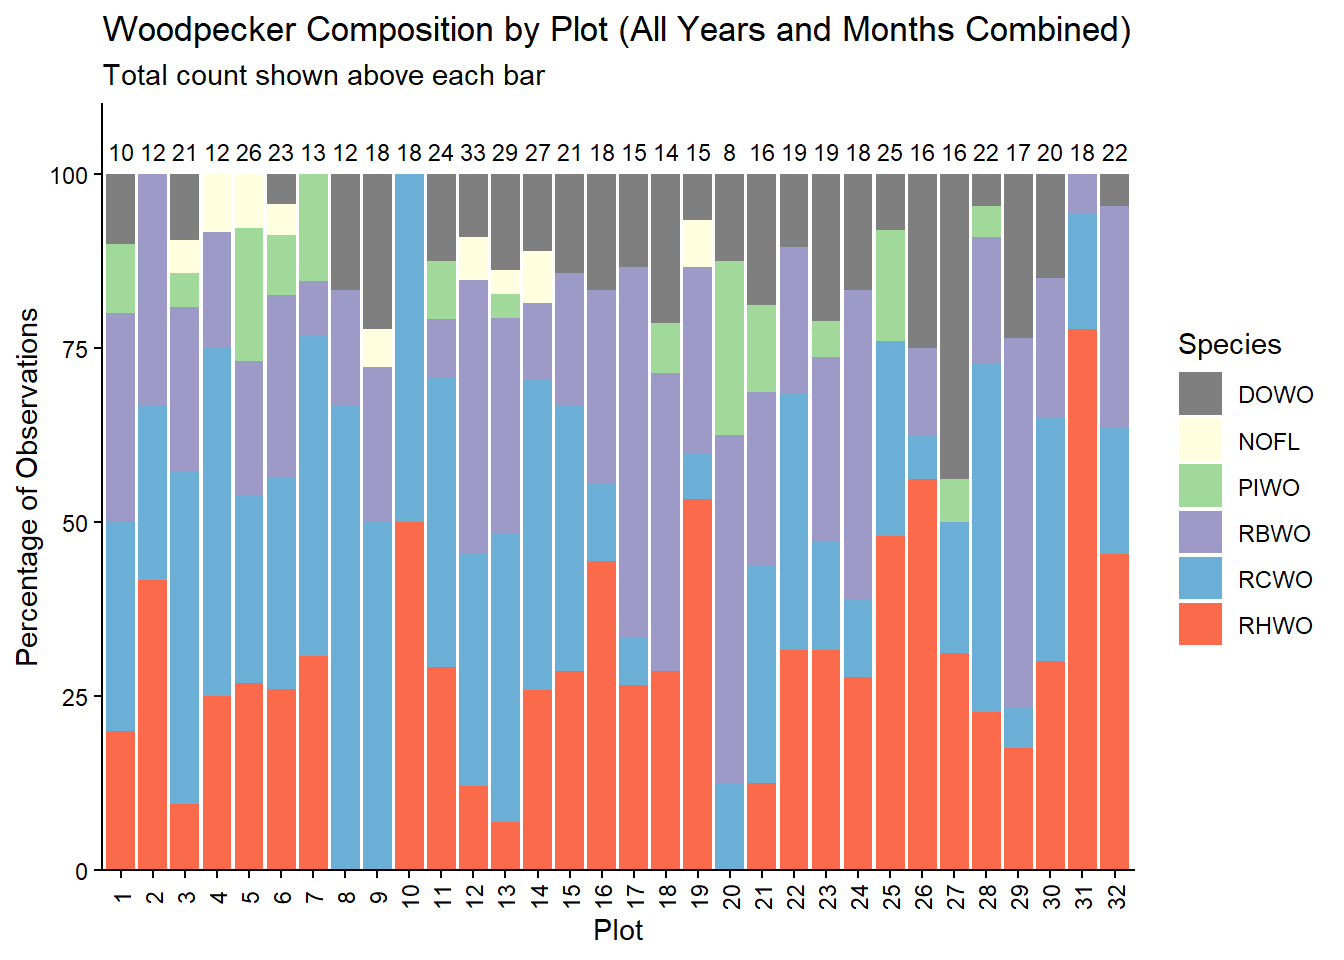
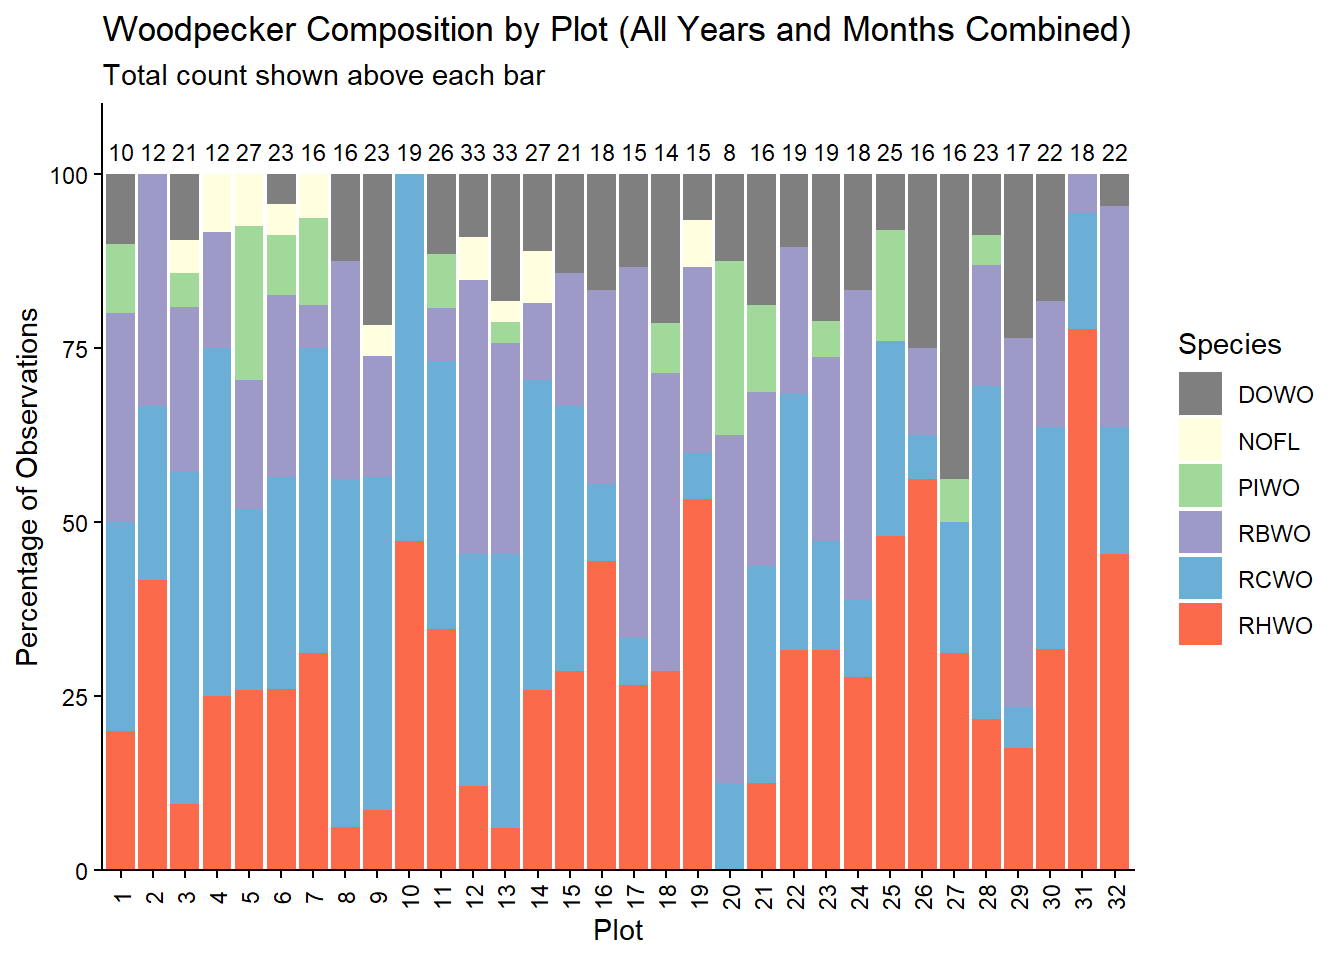
Updated just the foraging data for early May

diff --git a/docs/woodpecker_obs.html b/docs/woodpecker_obs.html
@@ -238,7 +238,7 @@ Table: April observations by species and plot
 <h1>May Observations</h1>
 <div class="cell">
 <div class="cell-output cell-output-stdout">
-<pre><code>Plot(s) with no observations include:  8, 9, 19, 20, 21</code></pre>
+<pre><code>Plot(s) with no observations include:  19, 20, 21</code></pre>
 </div>
 </div>
 <div class="cell">
@@ -249,12 +249,13 @@ Table: May observations by species and plot
 
 |X8_Species |  3|  8|  9| 14| 17| 18| 19| 22| 24|  5|  1|  2|  4|  6|  7| 12| 13| 15| 20| 23| 30| 32| 10| 11| 16| 25| 31| 26| 28| 29| 21| 27|
 |:----------|--:|--:|--:|--:|--:|--:|--:|--:|--:|--:|--:|--:|--:|--:|--:|--:|--:|--:|--:|--:|--:|--:|--:|--:|--:|--:|--:|--:|--:|--:|--:|--:|
-|DOWO       |  0|  0|  0|  0|  0|  0|  0|  0|  0|  0|  0|  0|  0|  0|  0|  0|  1|  0|  0|  2|  3|  1|  0|  0|  0|  0|  0|  1|  0|  1|  0|  1|
-|NOFL       |  0|  0|  0|  0|  0|  0|  0|  0|  0|  0|  0|  0|  0|  1|  0|  0|  0|  0|  0|  0|  0|  0|  0|  0|  0|  0|  0|  0|  0|  0|  0|  0|
-|PIWO       |  1|  0|  0|  0|  0|  1|  0|  0|  0|  1|  0|  0|  0|  1|  0|  0|  0|  0|  0|  0|  0|  0|  0|  0|  0|  4|  0|  0|  0|  0|  0|  0|
-|RBWO       |  1|  0|  0|  0|  1|  0|  0|  1|  1|  1|  0|  1|  0|  2|  0|  2|  1|  0|  0|  0|  2|  1|  0|  0|  0|  0|  0|  0|  0|  1|  0|  0|
-|RCWO       |  1|  0|  0|  2|  0|  0|  0|  2|  0|  0|  0|  0|  0|  1|  2|  1|  2|  1|  0|  1|  1|  2|  1|  2|  0|  1|  0|  0|  2|  0|  0|  0|
-|RHWO       |  0|  0|  0|  0|  1|  0|  0|  0|  1|  1|  1|  1|  1|  1|  0|  1|  0|  1|  0|  0|  1|  3|  0|  0|  2|  2|  2|  1|  0|  0|  0|  0|</code></pre>
+|DOWO       |  0|  0|  0|  0|  0|  0|  0|  0|  0|  0|  0|  0|  0|  0|  0|  0|  3|  0|  0|  2|  4|  1|  0|  0|  0|  0|  0|  1|  1|  1|  0|  1|
+|HAWO       |  0|  0|  1|  0|  0|  0|  0|  0|  0|  0|  0|  0|  0|  0|  0|  0|  0|  0|  0|  0|  0|  0|  0|  0|  0|  0|  0|  0|  0|  0|  0|  0|
+|NOFL       |  0|  0|  0|  0|  0|  0|  0|  0|  0|  0|  0|  0|  0|  1|  1|  0|  0|  0|  0|  0|  0|  0|  0|  0|  0|  0|  0|  0|  0|  0|  0|  0|
+|PIWO       |  1|  0|  0|  0|  0|  1|  0|  0|  0|  2|  0|  0|  0|  1|  0|  0|  0|  0|  0|  0|  0|  0|  0|  0|  0|  4|  0|  0|  0|  0|  0|  0|
+|RBWO       |  1|  3|  0|  0|  1|  0|  0|  1|  1|  1|  0|  1|  0|  2|  0|  2|  2|  0|  0|  0|  2|  1|  0|  0|  0|  0|  0|  0|  0|  1|  0|  0|
+|RCWO       |  1|  0|  2|  2|  0|  0|  0|  2|  0|  0|  0|  0|  0|  1|  3|  1|  3|  1|  0|  1|  1|  2|  2|  2|  0|  1|  0|  0|  2|  0|  0|  0|
+|RHWO       |  0|  1|  2|  0|  1|  0|  0|  0|  1|  1|  1|  1|  1|  1|  1|  1|  0|  1|  0|  0|  2|  3|  0|  2|  2|  2|  2|  1|  0|  0|  0|  0|</code></pre>
 </div>
 </div>
 </section>
